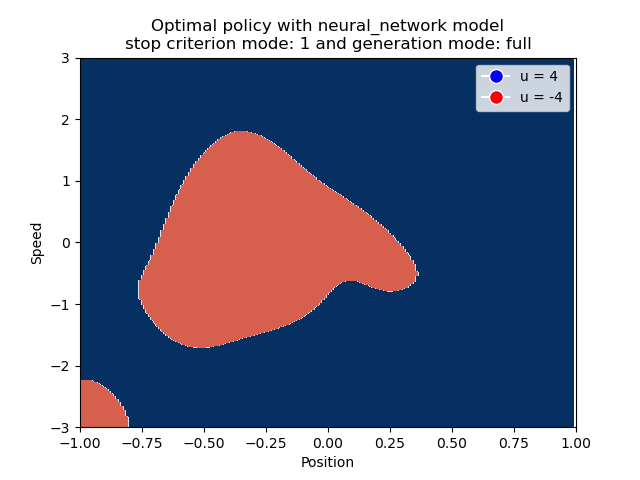
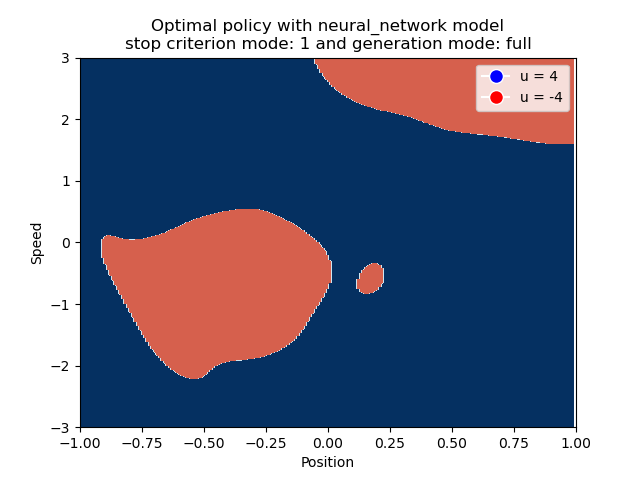
Saved for report

Changed region(s): [[0.1562, 0.25, 0.6562, 0.8125], [0.4688, 0.125, 0.9062, 0.3125], [0.125, 0.7812, 0.2188, 0.9062]]

diff --git a/code/section4.py b/code/section4.py
@@ -1,7 +1,7 @@
 # INFO8003-1: Optimal Decision Making for Complex Problems
 # Project 2: Reinforcement Learning in a Continuous Domain
 # Authors: Romain LAMBERMONT, Arthur LOUIS
-# Section 4: Fitted-Q Iteration
+# Section 4: Fitted Q-Iteration
 
 ## IMPORTS
 import numpy as np
@@ -19,7 +19,7 @@ import csv
 RANDOM_STATE = 123
 EPOCHS = 100
 NB_SAMPLES = 1000
-BOUND_MODE_1 = 0.001
+BOUND_MODE_1 = 0.005
 BOUND_MODE_2 = 0.05
 N = 500
 MAX_ITER = 1000
@@ -42,6 +42,8 @@ def generate_model(model, model_type, inputs, outputs):
 
         Parameters:
         ------------
+        model : model
+            The model to fit
         model_type : str
             The type of model to generate
         inputs : np.array
@@ -402,121 +404,121 @@ def dump_expected_returns(expected_returns, model_type):
 
 ## MAIN
 def main():
-    domain = Domain()
-    agent = Agent(randomized=True)
-    osst_full = generate_osst(agent, domain, EPOCHS, NB_SAMPLES, technique="full")
-    osst_reduced = generate_osst(agent, domain, EPOCHS, NB_SAMPLES, technique="reduced")
+    # domain = Domain()
+    # agent = Agent(randomized=True)
+    # osst_full = generate_osst(agent, domain, EPOCHS, NB_SAMPLES, technique="full")
+    # osst_reduced = generate_osst(agent, domain, EPOCHS, NB_SAMPLES, technique="reduced")
 
-    print("\n### LINEAR REGRESSION STOP CRITERION 1 AND REDUCED SPACE ###")
-    model_linear_1_reduced, it_linear_1_reduced = fitted_q_iteration("linear_regression", osst_reduced, 1, BOUND_MODE_1)
-    generate_result_plots(model_linear_1_reduced, "linear_regression", 1, "reduced")
-    J_linear_1_reduced = monte_carlo_simulations_continuous(domain, NB_INITIAL_STATES, N, model_linear_1_reduced)
-    print(f"Expected return with linear regression: {J_linear_1_reduced[-1]}")
-    generate_gif(domain, model_linear_1_reduced, N, "linear_regression", 1, "reduced")
+    # print("\n### LINEAR REGRESSION STOP CRITERION 1 AND REDUCED SPACE ###")
+    # model_linear_1_reduced, it_linear_1_reduced = fitted_q_iteration("linear_regression", osst_reduced, 1, BOUND_MODE_1)
+    # generate_result_plots(model_linear_1_reduced, "linear_regression", 1, "reduced")
+    # J_linear_1_reduced = monte_carlo_simulations_continuous(domain, NB_INITIAL_STATES, N, model_linear_1_reduced)
+    # print(f"Expected return with linear regression: {J_linear_1_reduced[-1]}")
+    # generate_gif(domain, model_linear_1_reduced, N, "linear_regression", 1, "reduced")
 
-    print("\n### LINEAR REGRESSION STOP CRITERION 1 AND FULL SPACE ###")
-    model_linear_1_full, it_linear_1_full = fitted_q_iteration("linear_regression", osst_full, 1, BOUND_MODE_1)
-    generate_result_plots(model_linear_1_full, "linear_regression", 1, "full")
-    J_linear_1_full = monte_carlo_simulations_continuous(domain, NB_INITIAL_STATES, N, model_linear_1_full)
-    print(f"Expected return with linear regression: {J_linear_1_full[-1]}")
-    generate_gif(domain, model_linear_1_full, N, "linear_regression", 1, "full")
+    # print("\n### LINEAR REGRESSION STOP CRITERION 1 AND FULL SPACE ###")
+    # model_linear_1_full, it_linear_1_full = fitted_q_iteration("linear_regression", osst_full, 1, BOUND_MODE_1)
+    # generate_result_plots(model_linear_1_full, "linear_regression", 1, "full")
+    # J_linear_1_full = monte_carlo_simulations_continuous(domain, NB_INITIAL_STATES, N, model_linear_1_full)
+    # print(f"Expected return with linear regression: {J_linear_1_full[-1]}")
+    # generate_gif(domain, model_linear_1_full, N, "linear_regression", 1, "full")
 
-    print("\n### LINEAR REGRESSION STOP CRITERION 2 AND REDUCED SPACE ###")
-    model_linear_2_reduced, it_linear_2_reduced = fitted_q_iteration("linear_regression", osst_reduced, 2, BOUND_MODE_2)
-    generate_result_plots(model_linear_2_reduced, "linear_regression", 2, "reduced")
-    J_linear_2_reduced = monte_carlo_simulations_continuous(domain, NB_INITIAL_STATES, N, model_linear_2_reduced)
-    print(f"Expected return with linear regression: {J_linear_2_reduced[-1]}")
-    generate_gif(domain, model_linear_2_reduced, N, "linear_regression", 2, "reduced")
+    # print("\n### LINEAR REGRESSION STOP CRITERION 2 AND REDUCED SPACE ###")
+    # model_linear_2_reduced, it_linear_2_reduced = fitted_q_iteration("linear_regression", osst_reduced, 2, BOUND_MODE_2)
+    # generate_result_plots(model_linear_2_reduced, "linear_regression", 2, "reduced")
+    # J_linear_2_reduced = monte_carlo_simulations_continuous(domain, NB_INITIAL_STATES, N, model_linear_2_reduced)
+    # print(f"Expected return with linear regression: {J_linear_2_reduced[-1]}")
+    # generate_gif(domain, model_linear_2_reduced, N, "linear_regression", 2, "reduced")
 
-    print("\n### LINEAR REGRESSION STOP CRITERION 2 AND FULL SPACE ###")
-    model_linear_2_full, it_linear_2_full = fitted_q_iteration("linear_regression", osst_full, 2, BOUND_MODE_2)
-    generate_result_plots(model_linear_2_full, "linear_regression", 2, "full")
-    J_linear_2_full = monte_carlo_simulations_continuous(domain, NB_INITIAL_STATES, N, model_linear_2_full)
-    print(f"Expected return with linear regression: {J_linear_2_full[-1]}")
-    generate_gif(domain, model_linear_2_full, N, "linear_regression", 2, "full")
+    # print("\n### LINEAR REGRESSION STOP CRITERION 2 AND FULL SPACE ###")
+    # model_linear_2_full, it_linear_2_full = fitted_q_iteration("linear_regression", osst_full, 2, BOUND_MODE_2)
+    # generate_result_plots(model_linear_2_full, "linear_regression", 2, "full")
+    # J_linear_2_full = monte_carlo_simulations_continuous(domain, NB_INITIAL_STATES, N, model_linear_2_full)
+    # print(f"Expected return with linear regression: {J_linear_2_full[-1]}")
+    # generate_gif(domain, model_linear_2_full, N, "linear_regression", 2, "full")
 
-    expected_returns_linear = [
-        ('linear_regression', 'reduced', 1, J_linear_1_reduced[-1], it_linear_1_reduced),
-        ('linear_regression', 'full', 1, J_linear_1_full[-1], it_linear_1_full),
-        ('linear_regression', 'reduced', 2, J_linear_2_reduced[-1], it_linear_2_reduced),
-        ('linear_regression', 'full', 2, J_linear_2_full[-1], it_linear_2_full),
-    ]
+    # expected_returns_linear = [
+    #     ('linear_regression', 'reduced', 1, J_linear_1_reduced[-1], it_linear_1_reduced),
+    #     ('linear_regression', 'full', 1, J_linear_1_full[-1], it_linear_1_full),
+    #     ('linear_regression', 'reduced', 2, J_linear_2_reduced[-1], it_linear_2_reduced),
+    #     ('linear_regression', 'full', 2, J_linear_2_full[-1], it_linear_2_full),
+    # ]
 
-    dump_expected_returns(expected_returns_linear, "linear_regression")
+    # dump_expected_returns(expected_returns_linear, "linear_regression")
 
-    print("\n### EXTRA TREES STOP CRITERION 1 AND REDUCED SPACE ###")
-    model_extra_trees_1_reduced, it_extra_trees_1_reduced = fitted_q_iteration("extra_trees", osst_reduced, 1, BOUND_MODE_1)
-    generate_result_plots(model_extra_trees_1_reduced, "extra_trees", 1, "reduced")
-    J_extra_trees_1_reduced = monte_carlo_simulations_continuous(domain, NB_INITIAL_STATES, N, model_extra_trees_1_reduced)
-    print(f"Expected return with extra trees: {J_extra_trees_1_reduced[-1]}")
-    generate_gif(domain, model_extra_trees_1_reduced, N, "extra_trees", 1, "reduced")
+    # print("\n### EXTRA TREES STOP CRITERION 1 AND REDUCED SPACE ###")
+    # model_extra_trees_1_reduced, it_extra_trees_1_reduced = fitted_q_iteration("extra_trees", osst_reduced, 1, BOUND_MODE_1)
+    # generate_result_plots(model_extra_trees_1_reduced, "extra_trees", 1, "reduced")
+    # J_extra_trees_1_reduced = monte_carlo_simulations_continuous(domain, NB_INITIAL_STATES, N, model_extra_trees_1_reduced)
+    # print(f"Expected return with extra trees: {J_extra_trees_1_reduced[-1]}")
+    # generate_gif(domain, model_extra_trees_1_reduced, N, "extra_trees", 1, "reduced")
     
-    print("\n### EXTRA TREES STOP CRITERION 1 AND FULL SPACE ###")
-    model_extra_trees_1_full, it_extra_trees_1_full = fitted_q_iteration("extra_trees", osst_full, 1, BOUND_MODE_1)
-    generate_result_plots(model_extra_trees_1_full, "extra_trees", 1, "full")
-    J_extra_trees_1_full = monte_carlo_simulations_continuous(domain, NB_INITIAL_STATES, N, model_extra_trees_1_full)
-    print(f"Expected return with extra trees: {J_extra_trees_1_full[-1]}")
-    generate_gif(domain, model_extra_trees_1_full, N, "extra_trees", 1, "full")
+    # print("\n### EXTRA TREES STOP CRITERION 1 AND FULL SPACE ###")
+    # model_extra_trees_1_full, it_extra_trees_1_full = fitted_q_iteration("extra_trees", osst_full, 1, BOUND_MODE_1)
+    # generate_result_plots(model_extra_trees_1_full, "extra_trees", 1, "full")
+    # J_extra_trees_1_full = monte_carlo_simulations_continuous(domain, NB_INITIAL_STATES, N, model_extra_trees_1_full)
+    # print(f"Expected return with extra trees: {J_extra_trees_1_full[-1]}")
+    # generate_gif(domain, model_extra_trees_1_full, N, "extra_trees", 1, "full")
     
-    print("\n### EXTRA TREES STOP CRITERION 2 AND REDUCED SPACE ###")
-    model_extra_trees_2_reduced, it_extra_trees_2_reduced = fitted_q_iteration("extra_trees", osst_reduced, 2, BOUND_MODE_2)
-    generate_result_plots(model_extra_trees_2_reduced, "extra_trees", 2, "reduced")
-    J_extra_trees_2_reduced = monte_carlo_simulations_continuous(domain, NB_INITIAL_STATES, N, model_extra_trees_2_reduced)
-    print(f"Expected return with extra trees: {J_extra_trees_2_reduced[-1]}")
-    generate_gif(domain, model_extra_trees_2_reduced, N, "extra_trees", 2, "reduced")
+    # print("\n### EXTRA TREES STOP CRITERION 2 AND REDUCED SPACE ###")
+    # model_extra_trees_2_reduced, it_extra_trees_2_reduced = fitted_q_iteration("extra_trees", osst_reduced, 2, BOUND_MODE_2)
+    # generate_result_plots(model_extra_trees_2_reduced, "extra_trees", 2, "reduced")
+    # J_extra_trees_2_reduced = monte_carlo_simulations_continuous(domain, NB_INITIAL_STATES, N, model_extra_trees_2_reduced)
+    # print(f"Expected return with extra trees: {J_extra_trees_2_reduced[-1]}")
+    # generate_gif(domain, model_extra_trees_2_reduced, N, "extra_trees", 2, "reduced")
     
-    print("\n### EXTRA TREES STOP CRITERION 2 AND FULL SPACE ###")
-    model_extra_trees_2_full, it_extra_trees_2_full = fitted_q_iteration("extra_trees", osst_full, 2, BOUND_MODE_2)
-    generate_result_plots(model_extra_trees_2_full, "extra_trees", 2, "full")
-    J_extra_trees_2_full = monte_carlo_simulations_continuous(domain, NB_INITIAL_STATES, N, model_extra_trees_2_full)
-    print(f"Expected return with extra trees: {J_extra_trees_2_full[-1]}")
-    generate_gif(domain, model_extra_trees_2_full, N, "extra_trees", 2, "full")
+    # print("\n### EXTRA TREES STOP CRITERION 2 AND FULL SPACE ###")
+    # model_extra_trees_2_full, it_extra_trees_2_full = fitted_q_iteration("extra_trees", osst_full, 2, BOUND_MODE_2)
+    # generate_result_plots(model_extra_trees_2_full, "extra_trees", 2, "full")
+    # J_extra_trees_2_full = monte_carlo_simulations_continuous(domain, NB_INITIAL_STATES, N, model_extra_trees_2_full)
+    # print(f"Expected return with extra trees: {J_extra_trees_2_full[-1]}")
+    # generate_gif(domain, model_extra_trees_2_full, N, "extra_trees", 2, "full")
 
-    expected_returns_extra_trees = [
-        ('extra_trees', 'reduced', 1, J_extra_trees_1_reduced[-1], it_extra_trees_1_reduced),
-        ('extra_trees', 'full', 1, J_extra_trees_1_full[-1], it_extra_trees_1_full),
-        ('extra_trees', 'reduced', 2, J_extra_trees_2_reduced[-1], it_extra_trees_2_reduced),
-        ('extra_trees', 'full', 2, J_extra_trees_2_full[-1], it_extra_trees_2_full),
-    ]
+    # expected_returns_extra_trees = [
+    #     ('extra_trees', 'reduced', 1, J_extra_trees_1_reduced[-1], it_extra_trees_1_reduced),
+    #     ('extra_trees', 'full', 1, J_extra_trees_1_full[-1], it_extra_trees_1_full),
+    #     ('extra_trees', 'reduced', 2, J_extra_trees_2_reduced[-1], it_extra_trees_2_reduced),
+    #     ('extra_trees', 'full', 2, J_extra_trees_2_full[-1], it_extra_trees_2_full),
+    # ]
 
-    dump_expected_returns(expected_returns_extra_trees, "extra_trees")
+    # dump_expected_returns(expected_returns_extra_trees, "extra_trees")
 
-    print("\n### NEURAL NETWORK STOP CRITERION 1 AND REDUCED SPACE ###")
-    model_neural_network_1_reduced, it_neural_network_1_reduced = fitted_q_iteration("neural_network", osst_reduced, 1, BOUND_MODE_1)
-    generate_result_plots(model_neural_network_1_reduced, "neural_network", 1, "reduced")
-    J_neural_network_1_reduced = monte_carlo_simulations_continuous(domain, NB_INITIAL_STATES, N, model_neural_network_1_reduced)
-    print(f"Expected return with neural network: {J_neural_network_1_reduced[-1]}")
-    generate_gif(domain, model_neural_network_1_reduced, N, "neural_network", 1, "reduced")
+    # print("\n### NEURAL NETWORK STOP CRITERION 1 AND REDUCED SPACE ###")
+    # model_neural_network_1_reduced, it_neural_network_1_reduced = fitted_q_iteration("neural_network", osst_reduced, 1, BOUND_MODE_1)
+    # generate_result_plots(model_neural_network_1_reduced, "neural_network", 1, "reduced")
+    # J_neural_network_1_reduced = monte_carlo_simulations_continuous(domain, NB_INITIAL_STATES, N, model_neural_network_1_reduced)
+    # print(f"Expected return with neural network: {J_neural_network_1_reduced[-1]}")
+    # generate_gif(domain, model_neural_network_1_reduced, N, "neural_network", 1, "reduced")
     
-    print("\n### NEURAL NETWORK STOP CRITERION 1 AND FULL SPACE ###")
-    model_neural_network_1_full, it_neural_network_1_full = fitted_q_iteration("neural_network", osst_full, 1, BOUND_MODE_1)
-    generate_result_plots(model_neural_network_1_full, "neural_network", 1, "full")
-    J_neural_network_1_full = monte_carlo_simulations_continuous(domain, NB_INITIAL_STATES, N, model_neural_network_1_full)
-    print(f"Expected return with neural network: {J_neural_network_1_full[-1]}")
-    generate_gif(domain, model_neural_network_1_full, N, "neural_network", 1, "full")
+    # print("\n### NEURAL NETWORK STOP CRITERION 1 AND FULL SPACE ###")
+    # model_neural_network_1_full, it_neural_network_1_full = fitted_q_iteration("neural_network", osst_full, 1, BOUND_MODE_1)
+    # generate_result_plots(model_neural_network_1_full, "neural_network", 1, "full")
+    # J_neural_network_1_full = monte_carlo_simulations_continuous(domain, NB_INITIAL_STATES, N, model_neural_network_1_full)
+    # print(f"Expected return with neural network: {J_neural_network_1_full[-1]}")
+    # generate_gif(domain, model_neural_network_1_full, N, "neural_network", 1, "full")
     
-    print("\n### NEURAL NETWORK STOP CRITERION 2 AND REDUCED SPACE ###")
-    model_neural_network_2_reduced, it_neural_network_2_reduced = fitted_q_iteration("neural_network", osst_reduced, 2, BOUND_MODE_2)
-    generate_result_plots(model_neural_network_2_reduced, "neural_network", 2, "reduced")
-    J_neural_network_2_reduced = monte_carlo_simulations_continuous(domain, NB_INITIAL_STATES, N, model_neural_network_2_reduced)
-    print(f"Expected return with neural network: {J_neural_network_2_reduced[-1]}")
-    generate_gif(domain, model_neural_network_2_reduced, N, "neural_network", 2, "reduced")
+    # print("\n### NEURAL NETWORK STOP CRITERION 2 AND REDUCED SPACE ###")
+    # model_neural_network_2_reduced, it_neural_network_2_reduced = fitted_q_iteration("neural_network", osst_reduced, 2, BOUND_MODE_2)
+    # generate_result_plots(model_neural_network_2_reduced, "neural_network", 2, "reduced")
+    # J_neural_network_2_reduced = monte_carlo_simulations_continuous(domain, NB_INITIAL_STATES, N, model_neural_network_2_reduced)
+    # print(f"Expected return with neural network: {J_neural_network_2_reduced[-1]}")
+    # generate_gif(domain, model_neural_network_2_reduced, N, "neural_network", 2, "reduced")
     
-    print("\n### NEURAL NETWORK STOP CRITERION 2 AND FULL SPACE ###")
-    model_neural_network_2_full, it_neural_network_2_full = fitted_q_iteration("neural_network", osst_full, 2, BOUND_MODE_2)
-    generate_result_plots(model_neural_network_2_full, "neural_network", 2, "full")
-    J_neural_network_2_full = monte_carlo_simulations_continuous(domain, NB_INITIAL_STATES, N, model_neural_network_2_full)
-    print(f"Expected return with neural network: {J_neural_network_2_full[-1]}")
-    generate_gif(domain, model_neural_network_2_full, N, "neural_network", 2, "full")
+    # print("\n### NEURAL NETWORK STOP CRITERION 2 AND FULL SPACE ###")
+    # model_neural_network_2_full, it_neural_network_2_full = fitted_q_iteration("neural_network", osst_full, 2, BOUND_MODE_2)
+    # generate_result_plots(model_neural_network_2_full, "neural_network", 2, "full")
+    # J_neural_network_2_full = monte_carlo_simulations_continuous(domain, NB_INITIAL_STATES, N, model_neural_network_2_full)
+    # print(f"Expected return with neural network: {J_neural_network_2_full[-1]}")
+    # generate_gif(domain, model_neural_network_2_full, N, "neural_network", 2, "full")
 
-    expected_returns_neural_network = [
-        ('neural_network', 'reduced', 1, J_neural_network_1_reduced[-1], it_neural_network_1_reduced),
-        ('neural_network', 'full', 1, J_neural_network_1_full[-1], it_neural_network_1_full),
-        ('neural_network', 'reduced', 2, J_neural_network_2_reduced[-1], it_neural_network_2_reduced),
-        ('neural_network', 'full', 2, J_neural_network_2_full[-1], it_neural_network_2_full),
-    ]
+    # expected_returns_neural_network = [
+    #     ('neural_network', 'reduced', 1, J_neural_network_1_reduced[-1], it_neural_network_1_reduced),
+    #     ('neural_network', 'full', 1, J_neural_network_1_full[-1], it_neural_network_1_full),
+    #     ('neural_network', 'reduced', 2, J_neural_network_2_reduced[-1], it_neural_network_2_reduced),
+    #     ('neural_network', 'full', 2, J_neural_network_2_full[-1], it_neural_network_2_full),
+    # ]
 
-    dump_expected_returns(expected_returns_neural_network, "neural_network")
+    # dump_expected_returns(expected_returns_neural_network, "neural_network")
 
     pass
 

diff --git a/code/section2.py b/code/section2.py
@@ -5,7 +5,7 @@
 
 ## IMPORTS
 import numpy as np
-np.random.seed(123)
+np.random.seed(0)
 import matplotlib.pyplot as plt
 
 ## CONSTANTS
@@ -60,16 +60,16 @@ def expected_return_continuous(Domain, Agent, N):
     
     return J_N
 
-def monte_carlo_simulations_continuous(Domain, Agent, nb_initial_states, N):
+def monte_carlo_simulations_continuous(randomized, domain_class, nb_initial_states, N):
     """
         This function computes the expected return of a policy over N steps in the continuous domain by averaging over several initial states.
 
         Parameters
         ----------
-        Domain : Domain
+        randomized : bool
+            Whether to use a randomized policy or the always accelerate policy
+        domain_class : Domain
             The domain in which the agent evolves
-        Agent : Agent
-            The agent that evolves in the domain
         nb_initial_states : int
             The number of initial states to average the expected return over
         N : int
@@ -82,22 +82,28 @@ def monte_carlo_simulations_continuous(Domain, Agent, nb_initial_states, N):
     """
     J_N = np.zeros(N)
     for _ in range(nb_initial_states):
-        J_N += expected_return_continuous(Domain, Agent, N)
+        domain = domain_class()
+        agent = Agent(randomized=randomized)
+        J_N += expected_return_continuous(domain, agent, N)
     J_N = J_N / nb_initial_states
     return J_N
 
 ## MAIN
 def main():
-    domain = Domain()
-    agent = Agent(randomized=RANDOMIZED)
-    J_N = monte_carlo_simulations_continuous(domain, agent, NB_INITIAL_STATES, N)
-    print("Final expected return of the policy:", J_N[-1])
+    N_test = [10, 50, 100, 500, 1000, 5000]
+    print("Upper bound of the expected return of the policy:")
+    for n in N_test:
+        norm = (DISCOUNT_FACTOR**n) / (1 - DISCOUNT_FACTOR)
+        print(f"{n}: {norm}")
+    
+    J_N = monte_carlo_simulations_continuous(RANDOMIZED, Domain, NB_INITIAL_STATES, N)
+    print("\nFinal expected return of the policy:", J_N[-1])
 
     plt.plot(J_N)
     plt.xlabel("Time step")
     plt.ylabel(f"Expected return over {NB_INITIAL_STATES} simulations")
-    plt.title(r"Evolution of $J^{\mu}_{" + str(N) + "}$ over " + str(NB_INITIAL_STATES) + " simulations for a " + ("random" if agent.randomized else "always accelerate") + " policy")
-    plt.savefig("figures/section2/expected_return_" + str(NB_INITIAL_STATES) + "_states_over_" + str(N) + "_steps_" + ("random" if agent.randomized else "accelerate") + ".png")
+    plt.title(r"Evolution of $J^{\mu}_{" + str(N) + "}$ over " + str(NB_INITIAL_STATES) + " simulations for a " + ("random" if RANDOMIZED else "always accelerate") + " policy")
+    plt.savefig("figures/section2/expected_return_" + str(NB_INITIAL_STATES) + "_states_over_" + str(N) + "_steps_" + ("random" if RANDOMIZED else "accelerate") + ".png")
 
 if __name__ == "__main__":
     main()

diff --git a/code/section1.py b/code/section1.py
@@ -8,7 +8,7 @@ import numpy as np
 np.random.seed(0)
 
 ## CONSTANTS
-N = 10
+N = 20
 U = [-4, 4]
 M = 1
 G = 9.81
@@ -17,6 +17,7 @@ INTEGRATION_STEP = 0.001
 DISCOUNT_FACTOR = 0.95
 TERMINAL_P = 1
 TERMINAL_S = 3
+RANDOMIZED = False
 
 ## DERIVED CONSTANTS
 DYNAMIC_STEP = int(TIME_STEP / INTEGRATION_STEP)
@@ -59,10 +60,13 @@ class Domain:
 
         Attributes
         ----------
-        None
+        terminate : bool
+            Whether the agent is in a terminal state
     """
 
     def __init__(self):
+        #self.terminate = False # uncomment when only launching section1, keep commented when launching any other section
+        ## Terminate behavior already implemented in the other sections
         pass
 
     def hill(self, p):
@@ -178,10 +182,18 @@ class Domain:
             int
                 The reward of the agent (-1, 0 or 1)
         """
+        # if self.terminate: # If the agent is in a terminal state, we always return 0
+        #      return 0
+
+        ## keep terminate commented when launching any other section uncomment when launching section1
+        ## Terminate behavior already implemented in the other sections
+
         p_next, s_next = self.dynamics(p, s, u)
         if p_next < -TERMINAL_P or np.abs(s_next) > TERMINAL_S:
+            #self.terminate = True
             return -1
         elif p_next > TERMINAL_P and np.abs(s_next) <= TERMINAL_S:
+            #self.terminate = True
             return 1
         else:
             return 0
@@ -221,7 +233,7 @@ class Agent:
 ## MAIN
 def main():
     domain = Domain()
-    agent = Agent(randomized=True)
+    agent = Agent(randomized=RANDOMIZED)
     generate_trajectory(domain, agent, N)
 
 if __name__ == "__main__":
